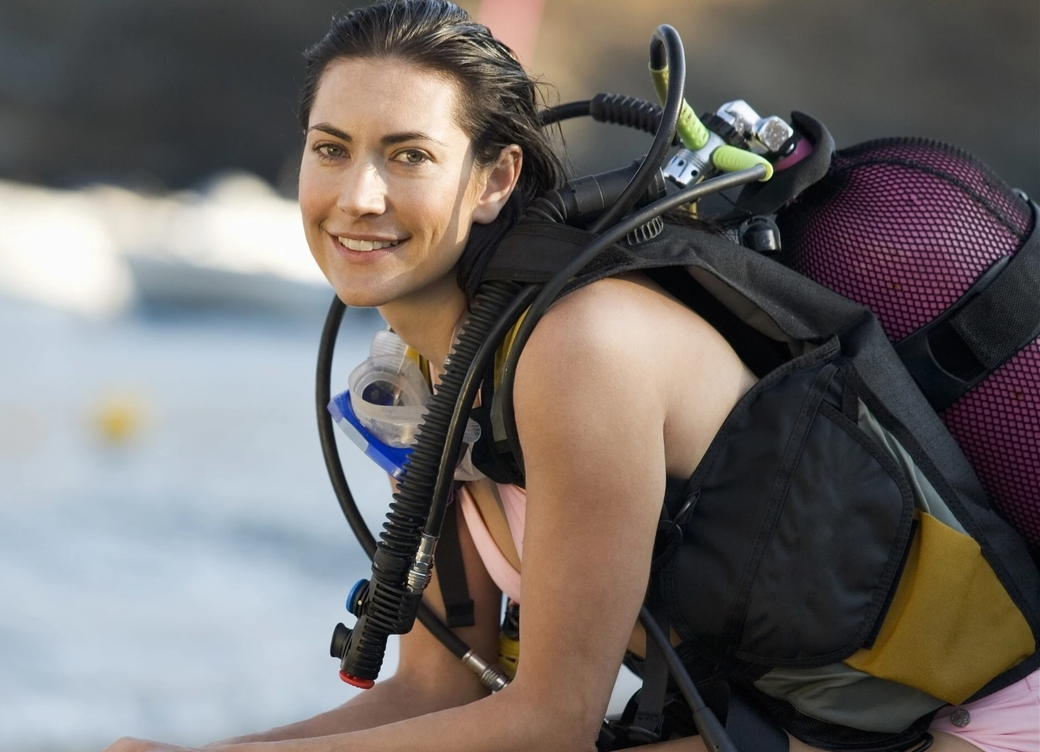
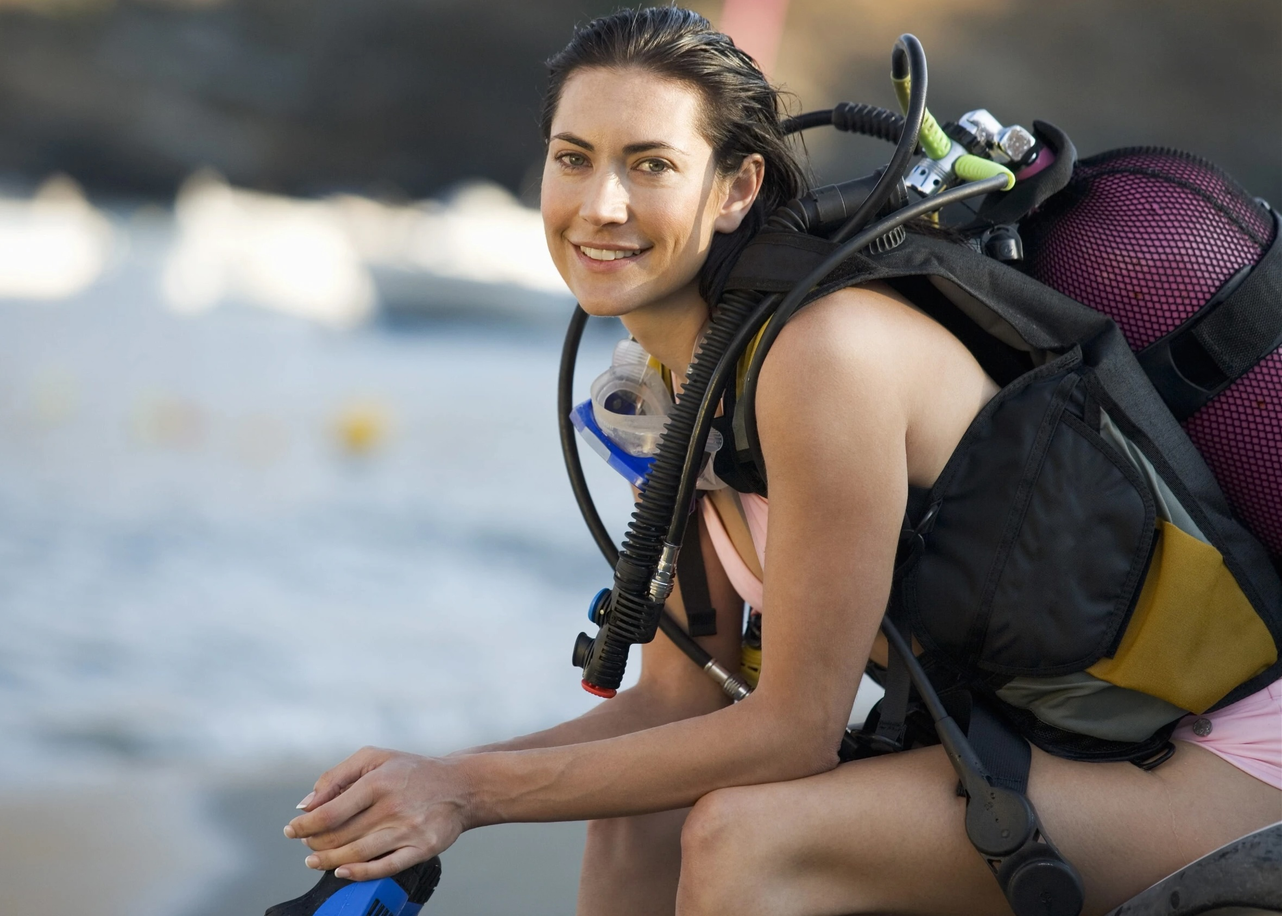
Adjust pictures again to make sure they are central and responsive as picture had to be changed in meet the team section

diff --git a/assets/css/style.css b/assets/css/style.css
@@ -170,15 +170,15 @@ figure.item {
 }
 
 .item img {
-    width: 100%;
-    height: auto;
+    width: 250px;
+    height: 210px;
     box-shadow: 0 0 5px 0 #3c3939;
 }
 
 @media only screen and (max-width: 400px) {
     .item img {
-        width: 200px;
-        height: 150px;
+        width: 150px;
+        height: 100px;
     }
 }
 
